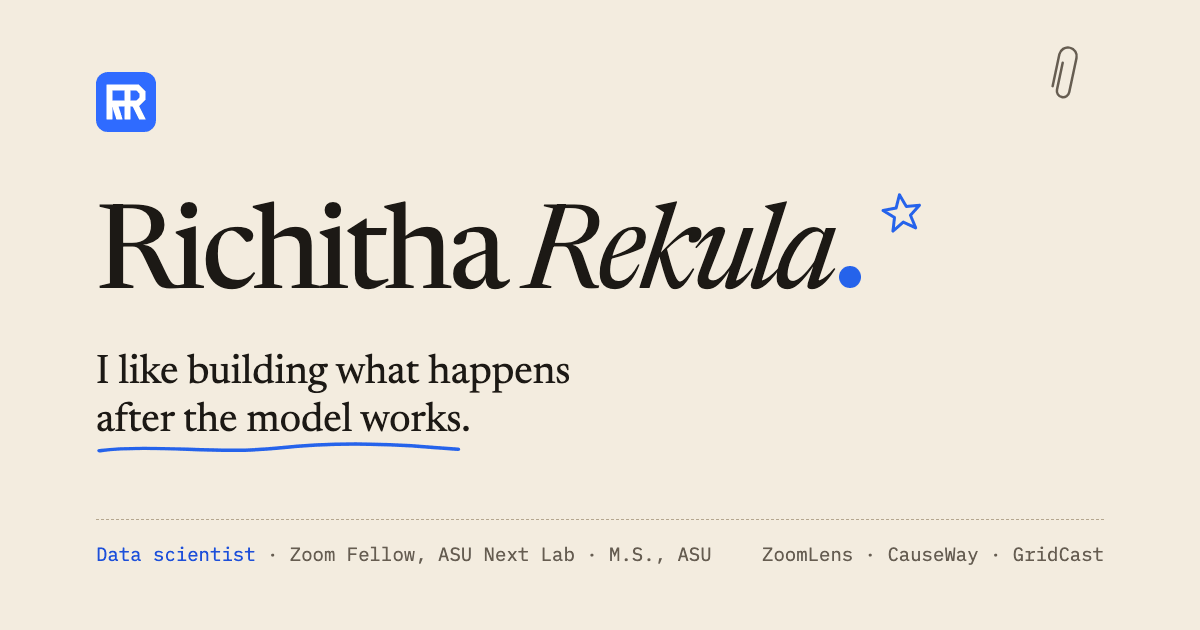
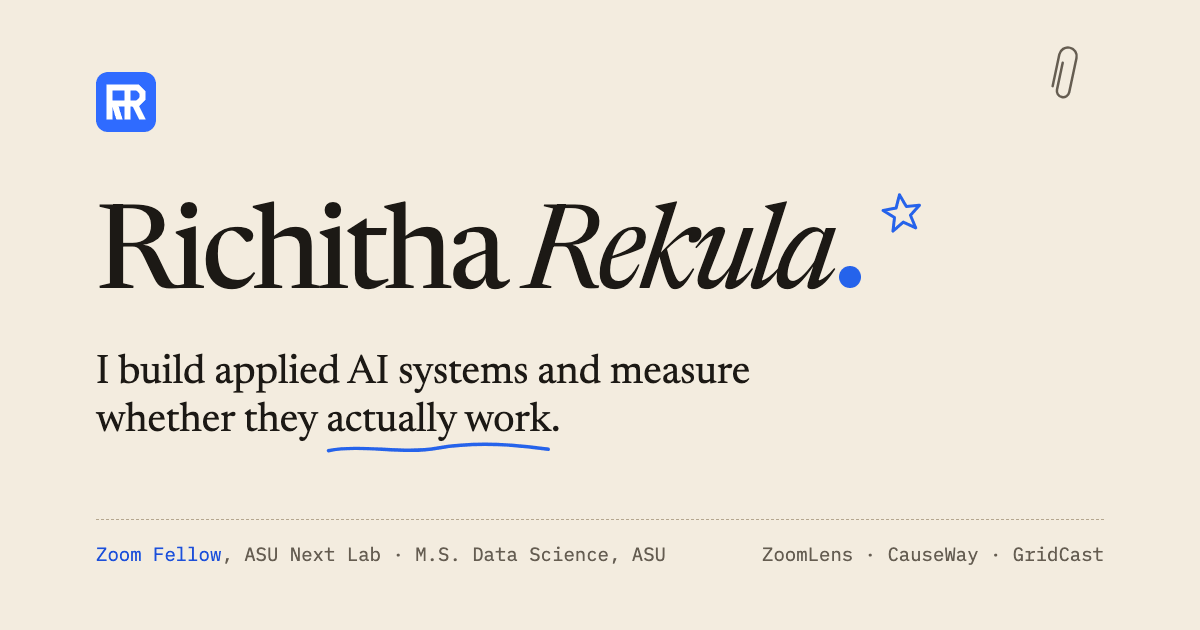
Feature CodeAtlas, Reddit ETL, and StreamBox, and drop the hero facts
Move Ticket Triage off the homepage, link the rest of the work on GitHub,
match the tools list to the projects shown, and update the link preview.

Changed region(s): [[0.0617, 0.5429, 0.6167, 0.7238], [0.0617, 0.8444, 0.5858, 0.9048]]

diff --git a/src/data/projects.ts b/src/data/projects.ts
@@ -393,7 +393,7 @@ export const projects: Project[] = [
     title: 'CodeAtlas',
     summary:
       'Static analysis for Rust that traces which functions, modules, and tests a code change can affect, with the source line behind each step.',
-    tier: 'archive',
+    tier: 'more',
     year: '2026',
     role: 'Solo project',
     contribution:
@@ -653,7 +653,7 @@ export const projects: Project[] = [
     slug: 'streambox',
     title: 'StreamBox',
     summary: 'A streaming web app whose backend stays consistent when many users write to the same data.',
-    tier: 'archive',
+    tier: 'more',
     year: '2024',
     role: 'Solo project',
     contribution:
@@ -723,7 +723,7 @@ export const projects: Project[] = [
     slug: 'ticket-triage',
     title: 'Support Ticket Triage',
     summary: 'Predicts support-ticket priority and resolution time, and explains each prediction.',
-    tier: 'more',
+    tier: 'archive',
     year: '2026',
     role: 'Solo project',
     contribution:
@@ -859,9 +859,7 @@ export const projects: Project[] = [
 ];
 
 export const featured = projects.filter((p) => p.tier === 'featured');
-// Supporting projects, in the order the résumé lists them.
-export const more = ['ticket-triage', 'reddit-data-pipeline'].map((slug) => projects.find((p) => p.slug === slug)!);
-export const archived = projects.filter((p) => p.tier === 'archive');
+export const more = projects.filter((p) => p.tier === 'more');
 /** Every case-study page that gets built, including archived ones so old links keep working. */
 export const allCaseStudies = projects.filter((p) => p.caseStudy);
 /** The case studies linked from the homepage, in homepage order. */

diff --git a/src/data/skills.ts b/src/data/skills.ts
@@ -2,11 +2,14 @@ export type SkillGroup = { name: string; items: string[] };
 
 // Tools the projects and current role actually use, not everything ever touched.
 export const skills: SkillGroup[] = [
-  { name: 'Languages', items: ['Python', 'SQL', 'JavaScript'] },
+  { name: 'Languages', items: ['Python', 'SQL', 'JavaScript', 'Rust'] },
   {
     name: 'Data science & ML',
     items: ['pandas', 'NumPy', 'statsmodels', 'scikit-learn', 'XGBoost', 'LightGBM', 'PyTorch', 'SHAP', 'EconML', 'DoubleML'],
   },
-  { name: 'Applied AI & backend', items: ['Claude API', 'Gemini API', 'Node.js', 'WebSockets', 'Flask', 'Zoom Apps SDK', 'Zoom Realtime Media Streams API'] },
-  { name: 'Data & infrastructure', items: ['PostgreSQL', 'Docker', 'GitHub Actions', 'pytest'] },
+  {
+    name: 'Applied AI & backend',
+    items: ['Claude API', 'Gemini API', 'Node.js', 'Express', 'WebSockets', 'GraphQL', 'Zoom Apps SDK', 'Zoom Realtime Media Streams API'],
+  },
+  { name: 'Data & infrastructure', items: ['PostgreSQL', 'MongoDB', 'Neo4j', 'Docker', 'GitHub Actions', 'pytest'] },
 ];
